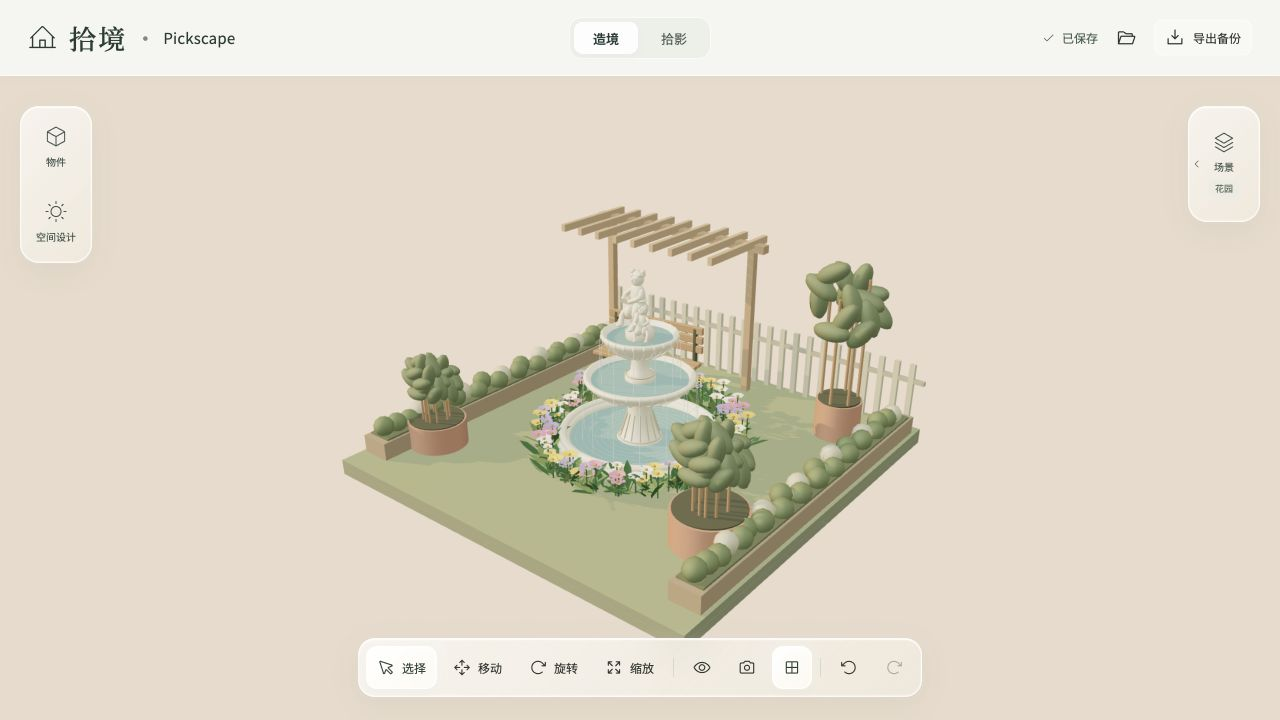
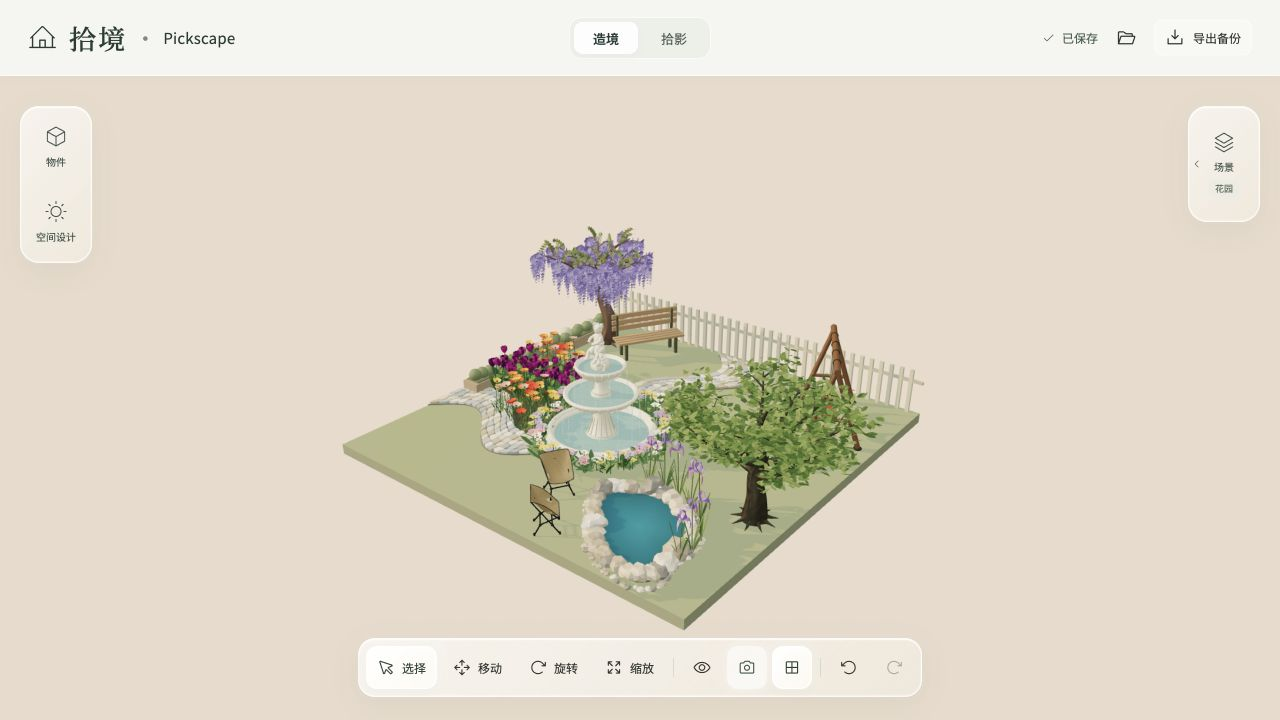
Show the author's actual furnished spaces in README

Changed region(s): [[0.25, 0.275, 0.7188, 0.8861], [0.5625, 0.9167, 0.5938, 0.9472]]

diff --git a/README.md b/README.md
@@ -10,25 +10,25 @@
 
 ## 案例图
 
-以下均为应用实际运行截图，使用内置示例和独立演示项目，不包含个人浏览器收藏。
+以下均为作者在本地实际布置的空间截图，展示已保存项目中的客厅、花园和画廊。
 
 ### 造境 · 客厅
 
-调整家具的位置、朝向与大小，搭配地板、墙面和光影，布置一角自己的生活。
+蓝色沙发、红白边框地毯、包豪斯展示架、复古花架与吧台，把喜欢的物件放在同一个房间。
 
-![造境：沙发、茶几、书架与植物组成的客厅](docs/images/living-room.jpg)
+![作者本地布置：蓝色沙发、展示架、花架与吧台客厅](docs/images/living-room.jpg)
 
 ### 造境 · 花园
 
-花架、绿植与环绕繁花的许愿池，也可以成为日常之外的一小块花园。
+紫藤、郁金香、虞美人、蜿蜒石路与许愿池，搭配池塘、露营椅和秋千，组成自己的小花园。
 
-![造境：花架与许愿池花园](docs/images/garden.jpg)
+![作者本地布置：紫藤、花丛、许愿池、池塘和露营椅花园](docs/images/garden.jpg)
 
-### 拾影 · 照片收藏
+### 造境 · 画廊
 
-收藏照片与物件参考图，新上传的照片可以在本地制成带立体画框的画作。
+猫咪肖像、戴珍珠耳环的少女、彩色双犬与金色骑马雕像，配上奶油色沙发，布置一间私人小画廊。
 
-![拾影：拍立得式照片收藏列表](docs/images/photo-collection.jpg)
+![作者本地布置：挂画、骑马雕像与奶油沙发画廊](docs/images/gallery.jpg)
 
 ## 可以做什么
 
